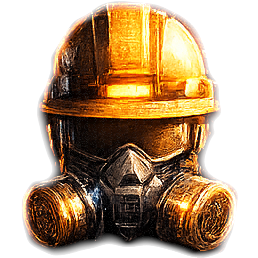
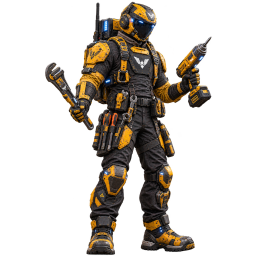
Trabajador con textura nueva y animación de reposo como el militar; novedades del 26

diff --git a/assets/js/reposo.js b/assets/js/reposo.js
@@ -9,10 +9,10 @@
    <img> estática de siempre. Sólo se anima lo que está en pantalla. */
 (function () {
   'use strict';
-  var CFG = {"reproduccion":{"modo":"hibrido","pausaMin":3,"pausaMax":8,"gestoDur":2.2,"rampa":0.3,"desfase":true},"unidades":{"militar":{"respiracion":{"amp":0.014,"periodo":3.6,"capa":"micro"},"balanceo":{"grados":1.5,"periodo":4.5,"capa":"gesto","desplaza":0,"pie":0.95},"cabeceo":{"y0":0,"y1":0.2,"cuello":0.2,"giro":5,"baja":0.006,"periodo":3.4,"capa":"gesto","x0":0,"x1":1,"fase":0},"brillos":[{"nombre":"luz","x":0.5,"y":0.3,"r":0.06,"color":"#5ec8ff","intens":0.8,"periodo":2.4,"modo":0,"capa":"micro","fase":0}]},"cientifico":{"respiracion":{"amp":0.012,"periodo":4,"capa":"micro"},"balanceo":{"grados":0.8,"periodo":5.5,"capa":"micro","desplaza":0,"pie":0.95},"cabeceo":{"y0":0,"y1":0.2,"cuello":0.2,"giro":5,"baja":0.006,"periodo":3.4,"capa":"gesto","x0":0,"x1":1,"fase":0},"brillos":[{"nombre":"luz","x":0.5,"y":0.3,"r":0.06,"color":"#5ec8ff","intens":0.8,"periodo":2.4,"modo":0,"capa":"micro","fase":0}]},"constructor":{"respiracion":{"amp":0.012,"periodo":3.8,"capa":"micro"},"balanceo":{"grados":1.5,"periodo":4.5,"capa":"gesto","desplaza":0,"pie":0.95},"cabeceo":{"y0":0,"y1":0.2,"cuello":0.2,"giro":5,"baja":0.006,"periodo":3.4,"capa":"gesto","x0":0,"x1":1,"fase":0},"brillos":[{"nombre":"luz","x":0.5,"y":0.3,"r":0.06,"color":"#5ec8ff","intens":0.8,"periodo":2.4,"modo":0,"capa":"micro","fase":0}]},"droide":{"flotar":{"altura":0.022,"periodo":2.6,"deriva":0,"capa":"micro"},"vibracion":{"px":0.002,"hz":18,"capa":"micro"},"brillos":[{"nombre":"luz","x":0.5,"y":0.3,"r":0.06,"color":"#5ec8ff","intens":0.8,"periodo":2.4,"modo":0,"capa":"micro","fase":0}]},"explorador":{"brillos":[{"nombre":"luz","x":0.5,"y":0.3,"r":0.06,"color":"#5ec8ff","intens":0.8,"periodo":2.4,"modo":0,"capa":"micro","fase":0}],"balanceo":{"grados":1.5,"periodo":4.5,"capa":"gesto","desplaza":0,"pie":0.95},"cabeceo":{"y0":0,"y1":0.2,"cuello":0.2,"giro":5,"baja":0.006,"periodo":3.4,"capa":"gesto","x0":0,"x1":1,"fase":0}},"meca":{"respiracion":{"amp":0.009,"periodo":4.2,"capa":"micro"},"vapor":[{"nombre":"hombro izq.","x":0.2,"y":0.1,"cantidad":2,"tamano":0.05,"subida":0.12,"color":"#cfd6d8","capa":"gesto","periodo":3,"opacidad":0.35},{"nombre":"hombro der.","x":0.76,"y":0.12,"cantidad":2,"tamano":0.05,"subida":0.12,"color":"#cfd6d8","capa":"gesto","periodo":3,"opacidad":0.35}],"balanceo":{"grados":1.5,"periodo":4.5,"capa":"gesto","desplaza":0,"pie":0.95},"cabeceo":{"y0":0,"y1":0.2,"cuello":0.2,"giro":5,"baja":0.006,"periodo":3.4,"capa":"gesto","x0":0,"x1":1,"fase":0},"vibracion":{"px":0.002,"hz":18,"capa":"micro"},"brillos":[{"nombre":"luz","x":0.5,"y":0.3,"r":0.06,"color":"#5ec8ff","intens":0.8,"periodo":2.4,"modo":0,"capa":"micro","fase":0}]},"transporte_apc":{"vibracion":{"px":0.0025,"hz":16,"capa":"micro"},"brillos":[{"nombre":"luz","x":0.5,"y":0.3,"r":0.06,"color":"#5ec8ff","intens":0.8,"periodo":2.4,"modo":0,"capa":"micro","fase":0}]},"raptor":{"flotar":{"altura":0.016,"periodo":2.8,"deriva":0,"capa":"micro"},"balanceo":{"grados":1,"periodo":4.5,"capa":"micro","desplaza":0,"pie":0.95},"brillos":[{"nombre":"luz","x":0.5,"y":0.3,"r":0.06,"color":"#5ec8ff","intens":0.8,"periodo":2.4,"modo":0,"capa":"micro","fase":0}],"vapor":[{"nombre":"salida","x":0.5,"y":0.2,"cantidad":2,"tamano":0.05,"subida":0.12,"color":"#cfd6d8","capa":"gesto","periodo":3,"opacidad":0.35}]}}};
+  var CFG = {"reproduccion":{"modo":"hibrido","pausaMin":3,"pausaMax":8,"gestoDur":2.2,"rampa":0.3,"desfase":true},"unidades":{"militar":{"respiracion":{"amp":0.014,"periodo":3.6,"capa":"micro"},"balanceo":{"grados":1.5,"periodo":4.5,"capa":"gesto","desplaza":0,"pie":0.95},"cabeceo":{"y0":0,"y1":0.2,"cuello":0.2,"giro":5,"baja":0.006,"periodo":3.4,"capa":"gesto","x0":0,"x1":1,"fase":0},"brillos":[{"nombre":"luz","x":0.5,"y":0.3,"r":0.06,"color":"#5ec8ff","intens":0.8,"periodo":2.4,"modo":0,"capa":"micro","fase":0}]},"trabajador":{"respiracion":{"amp":0.014,"periodo":3.6,"capa":"micro"},"balanceo":{"grados":1.5,"periodo":4.5,"capa":"gesto","desplaza":0,"pie":0.95},"cabeceo":{"y0":0,"y1":0.2,"cuello":0.2,"giro":5,"baja":0.006,"periodo":3.4,"capa":"gesto","x0":0,"x1":1,"fase":0},"brillos":[{"nombre":"luz","x":0.5,"y":0.3,"r":0.06,"color":"#5ec8ff","intens":0.8,"periodo":2.4,"modo":0,"capa":"micro","fase":0}]},"cientifico":{"respiracion":{"amp":0.012,"periodo":4,"capa":"micro"},"balanceo":{"grados":0.8,"periodo":5.5,"capa":"micro","desplaza":0,"pie":0.95},"cabeceo":{"y0":0,"y1":0.2,"cuello":0.2,"giro":5,"baja":0.006,"periodo":3.4,"capa":"gesto","x0":0,"x1":1,"fase":0},"brillos":[{"nombre":"luz","x":0.5,"y":0.3,"r":0.06,"color":"#5ec8ff","intens":0.8,"periodo":2.4,"modo":0,"capa":"micro","fase":0}]},"constructor":{"respiracion":{"amp":0.012,"periodo":3.8,"capa":"micro"},"balanceo":{"grados":1.5,"periodo":4.5,"capa":"gesto","desplaza":0,"pie":0.95},"cabeceo":{"y0":0,"y1":0.2,"cuello":0.2,"giro":5,"baja":0.006,"periodo":3.4,"capa":"gesto","x0":0,"x1":1,"fase":0},"brillos":[{"nombre":"luz","x":0.5,"y":0.3,"r":0.06,"color":"#5ec8ff","intens":0.8,"periodo":2.4,"modo":0,"capa":"micro","fase":0}]},"droide":{"flotar":{"altura":0.022,"periodo":2.6,"deriva":0,"capa":"micro"},"vibracion":{"px":0.002,"hz":18,"capa":"micro"},"brillos":[{"nombre":"luz","x":0.5,"y":0.3,"r":0.06,"color":"#5ec8ff","intens":0.8,"periodo":2.4,"modo":0,"capa":"micro","fase":0}]},"explorador":{"brillos":[{"nombre":"luz","x":0.5,"y":0.3,"r":0.06,"color":"#5ec8ff","intens":0.8,"periodo":2.4,"modo":0,"capa":"micro","fase":0}],"balanceo":{"grados":1.5,"periodo":4.5,"capa":"gesto","desplaza":0,"pie":0.95},"cabeceo":{"y0":0,"y1":0.2,"cuello":0.2,"giro":5,"baja":0.006,"periodo":3.4,"capa":"gesto","x0":0,"x1":1,"fase":0}},"meca":{"respiracion":{"amp":0.009,"periodo":4.2,"capa":"micro"},"vapor":[{"nombre":"hombro izq.","x":0.2,"y":0.1,"cantidad":2,"tamano":0.05,"subida":0.12,"color":"#cfd6d8","capa":"gesto","periodo":3,"opacidad":0.35},{"nombre":"hombro der.","x":0.76,"y":0.12,"cantidad":2,"tamano":0.05,"subida":0.12,"color":"#cfd6d8","capa":"gesto","periodo":3,"opacidad":0.35}],"balanceo":{"grados":1.5,"periodo":4.5,"capa":"gesto","desplaza":0,"pie":0.95},"cabeceo":{"y0":0,"y1":0.2,"cuello":0.2,"giro":5,"baja":0.006,"periodo":3.4,"capa":"gesto","x0":0,"x1":1,"fase":0},"vibracion":{"px":0.002,"hz":18,"capa":"micro"},"brillos":[{"nombre":"luz","x":0.5,"y":0.3,"r":0.06,"color":"#5ec8ff","intens":0.8,"periodo":2.4,"modo":0,"capa":"micro","fase":0}]},"transporte_apc":{"vibracion":{"px":0.0025,"hz":16,"capa":"micro"},"brillos":[{"nombre":"luz","x":0.5,"y":0.3,"r":0.06,"color":"#5ec8ff","intens":0.8,"periodo":2.4,"modo":0,"capa":"micro","fase":0}]},"raptor":{"flotar":{"altura":0.016,"periodo":2.8,"deriva":0,"capa":"micro"},"balanceo":{"grados":1,"periodo":4.5,"capa":"micro","desplaza":0,"pie":0.95},"brillos":[{"nombre":"luz","x":0.5,"y":0.3,"r":0.06,"color":"#5ec8ff","intens":0.8,"periodo":2.4,"modo":0,"capa":"micro","fase":0}],"vapor":[{"nombre":"salida","x":0.5,"y":0.2,"cantidad":2,"tamano":0.05,"subida":0.12,"color":"#cfd6d8","capa":"gesto","periodo":3,"opacidad":0.35}]}}};
   var CFGC = {"aquadeso":{"variante":"A","nombre":"Acecho","efectos":{"respiracion":{"amp":0.016,"periodo":3.2,"capa":"micro"},"balanceo":{"grados":1.5,"periodo":3.8,"capa":"micro","desplaza":0,"pie":0.95},"brillos":[{"nombre":"ojo izq.","x":0.34,"y":0.31,"r":0.03,"color":"#f0b030","intens":0.8,"periodo":2.6,"modo":0,"capa":"micro","fase":0},{"nombre":"ojo der.","x":0.47,"y":0.31,"r":0.03,"color":"#f0b030","intens":0.8,"periodo":2.6,"modo":0,"capa":"micro","fase":0.3}],"cabeceo":{"y0":0,"y1":0.2,"cuello":0.2,"giro":5,"baja":0.006,"periodo":3.4,"capa":"gesto","x0":0,"x1":1,"fase":0}}},"obidicto":{"variante":"A","nombre":"Guardia","efectos":{"respiracion":{"amp":0.01,"periodo":3.8,"capa":"micro"},"balanceo":{"grados":1,"periodo":4.5,"capa":"gesto","desplaza":0,"pie":0.95},"brillos":[{"nombre":"visor","x":0.475,"y":0.14,"r":0.035,"color":"#ff3030","intens":0.9,"periodo":2.2,"modo":0,"capa":"micro","fase":0}],"cabeceo":{"y0":0,"y1":0.2,"cuello":0.2,"giro":5,"baja":0.006,"periodo":3.4,"capa":"gesto","x0":0,"x1":1,"fase":0}}},"aratico":{"variante":"A","nombre":"Vigía","efectos":{"respiracion":{"amp":0.012,"periodo":4,"capa":"micro"},"brillos":[{"nombre":"ojo","x":0.33,"y":0.44,"r":0.03,"color":"#ff3030","intens":0.9,"periodo":3,"modo":1,"capa":"micro","fase":0},{"nombre":"piloto","x":0.56,"y":0.45,"r":0.025,"color":"#ff3030","intens":0.8,"periodo":3,"modo":1,"capa":"micro","fase":0.4}],"balanceo":{"grados":1.5,"periodo":4.5,"capa":"gesto","desplaza":0,"pie":0.95},"cabeceo":{"y0":0,"y1":0.2,"cuello":0.2,"giro":5,"baja":0.006,"periodo":3.4,"capa":"gesto","x0":0,"x1":1,"fase":0}}},"pescualido":{"variante":"A","nombre":"Latidos","efectos":{"respiracion":{"amp":0.014,"periodo":3.6,"capa":"micro"},"brillos":[{"nombre":"ojo mayor","x":0.51,"y":0.17,"r":0.04,"color":"#3a8cff","intens":0.95,"periodo":2.4,"modo":0,"capa":"micro","fase":0},{"nombre":"ojo 2","x":0.38,"y":0.22,"r":0.03,"color":"#3a8cff","intens":0.85,"periodo":2.4,"modo":0,"capa":"micro","fase":0.3},{"nombre":"ojo 3","x":0.58,"y":0.53,"r":0.03,"color":"#3a8cff","intens":0.85,"periodo":2.4,"modo":0,"capa":"micro","fase":0.6},{"nombre":"ojo 4","x":0.25,"y":0.66,"r":0.03,"color":"#3a8cff","intens":0.8,"periodo":2.4,"modo":0,"capa":"micro","fase":0.8}],"balanceo":{"grados":1.5,"periodo":4.5,"capa":"gesto","desplaza":0,"pie":0.95},"cabeceo":{"y0":0,"y1":0.2,"cuello":0.2,"giro":5,"baja":0.006,"periodo":3.4,"capa":"gesto","x0":0,"x1":1,"fase":0}}},"serpenta":{"variante":"A","nombre":"Ondular","efectos":{"respiracion":{"amp":0.01,"periodo":3,"capa":"micro"},"balanceo":{"grados":2.5,"periodo":3.4,"capa":"micro","desplaza":0.006,"pie":0.95},"cabeceo":{"y0":0,"y1":0.2,"cuello":0.2,"giro":5,"baja":0.006,"periodo":3.4,"capa":"gesto","x0":0,"x1":1,"fase":0},"brillos":[{"nombre":"luz","x":0.5,"y":0.3,"r":0.06,"color":"#5ec8ff","intens":0.8,"periodo":2.4,"modo":0,"capa":"micro","fase":0}]}},"maricobra":{"variante":"A","nombre":"Alas lentas","efectos":{"respiracion":{"amp":0.01,"periodo":3.6,"capa":"micro"},"partes":[{"nombre":"ala izq.","x0":0,"y0":0,"x1":0.47,"y1":0.68,"px":0.47,"py":0.42,"giro":5,"dx":0,"dy":0,"periodo":2.2,"fase":0,"capa":"gesto"},{"nombre":"ala der.","x0":0.53,"y0":0,"x1":1,"y1":0.68,"px":0.53,"py":0.42,"giro":-5,"dx":0,"dy":0,"periodo":2.2,"fase":0,"capa":"gesto"}],"brillos":[{"nombre":"luz","x":0.5,"y":0.3,"r":0.06,"color":"#5ec8ff","intens":0.8,"periodo":2.4,"modo":0,"capa":"micro","fase":0}]}},"zarpatauro":{"variante":"A","nombre":"Jadeo","efectos":{"respiracion":{"amp":0.018,"periodo":2.6,"capa":"micro"},"balanceo":{"grados":1,"periodo":3,"capa":"micro","desplaza":0,"pie":0.95},"cabeceo":{"y0":0,"y1":0.2,"cuello":0.2,"giro":5,"baja":0.006,"periodo":3.4,"capa":"gesto","x0":0,"x1":1,"fase":0},"brillos":[{"nombre":"luz","x":0.5,"y":0.3,"r":0.06,"color":"#5ec8ff","intens":0.8,"periodo":2.4,"modo":0,"capa":"micro","fase":0}]}},"aracnoso":{"variante":"A","nombre":"Acechar","efectos":{"respiracion":{"amp":0.014,"periodo":3.4,"capa":"micro"},"balanceo":{"grados":1,"periodo":4,"capa":"micro","desplaza":0,"pie":0.95},"cabeceo":{"y0":0,"y1":0.2,"cuello":0.2,"giro":5,"baja":0.006,"periodo":3.4,"capa":"gesto","x0":0,"x1":1,"fase":0},"brillos":[{"nombre":"luz","x":0.5,"y":0.3,"r":0.06,"color":"#5ec8ff","intens":0.8,"periodo":2.4,"modo":0,"capa":"micro","fase":0}]}},"cocodactilo":{"variante":"A","nombre":"Alas","efectos":{"respiracion":{"amp":0.01,"periodo":3.4,"capa":"micro"},"partes":[{"nombre":"ala izq.","x0":0.08,"y0":0.05,"x1":0.46,"y1":0.52,"px":0.46,"py":0.42,"giro":5,"dx":0,"dy":0,"periodo":2.4,"fase":0,"capa":"gesto"},{"nombre":"ala der.","x0":0.7,"y0":0.1,"x1":0.92,"y1":0.55,"px":0.68,"py":0.42,"giro":-4,"dx":0,"dy":0,"periodo":2.4,"fase":0,"capa":"gesto"}],"balanceo":{"grados":1.5,"periodo":4.5,"capa":"gesto","desplaza":0,"pie":0.95},"cabeceo":{"y0":0,"y1":0.2,"cuello":0.2,"giro":5,"baja":0.006,"periodo":3.4,"capa":"gesto","x0":0,"x1":1,"fase":0},"flotar":{"altura":0.02,"periodo":2.6,"deriva":0,"capa":"micro"},"brillos":[{"nombre":"luz","x":0.5,"y":0.3,"r":0.06,"color":"#5ec8ff","intens":0.8,"periodo":2.4,"modo":0,"capa":"micro","fase":0}]}},"devastador":{"variante":"A","nombre":"Respirar","efectos":{"respiracion":{"amp":0.012,"periodo":4,"capa":"micro"},"balanceo":{"grados":1,"periodo":4.5,"capa":"micro","desplaza":0,"pie":0.95},"cabeceo":{"y0":0,"y1":0.2,"cuello":0.2,"giro":5,"baja":0.006,"periodo":3.4,"capa":"gesto","x0":0,"x1":1,"fase":0},"brillos":[{"nombre":"luz","x":0.5,"y":0.3,"r":0.06,"color":"#5ec8ff","intens":0.8,"periodo":2.4,"modo":0,"capa":"micro","fase":0}]}},"rinotortuga":{"variante":"A","nombre":"Caparazón","efectos":{"respiracion":{"amp":0.012,"periodo":4.5,"capa":"micro"},"balanceo":{"grados":0.7,"periodo":5,"capa":"micro","desplaza":0,"pie":0.95},"cabeceo":{"y0":0,"y1":0.2,"cuello":0.2,"giro":5,"baja":0.006,"periodo":3.4,"capa":"gesto","x0":0,"x1":1,"fase":0},"vibracion":{"px":0.002,"hz":18,"capa":"micro"},"brillos":[{"nombre":"luz","x":0.5,"y":0.3,"r":0.06,"color":"#5ec8ff","intens":0.8,"periodo":2.4,"modo":0,"capa":"micro","fase":0}],"vapor":[{"nombre":"salida","x":0.5,"y":0.2,"cantidad":2,"tamano":0.05,"subida":0.12,"color":"#cfd6d8","capa":"gesto","periodo":3,"opacidad":0.35}]}},"ultimo_aliento":{"variante":"A","nombre":"Alas","efectos":{"respiracion":{"amp":0.01,"periodo":4,"capa":"micro"},"partes":[{"nombre":"ala izq.","x0":0,"y0":0.15,"x1":0.42,"y1":0.62,"px":0.42,"py":0.42,"giro":4,"dx":0,"dy":0,"periodo":2.4,"fase":0,"capa":"gesto"},{"nombre":"ala der.","x0":0.62,"y0":0.15,"x1":1,"y1":0.6,"px":0.62,"py":0.42,"giro":-4,"dx":0,"dy":0,"periodo":2.4,"fase":0,"capa":"gesto"}],"balanceo":{"grados":1.5,"periodo":4.5,"capa":"gesto","desplaza":0,"pie":0.95},"cabeceo":{"y0":0,"y1":0.2,"cuello":0.2,"giro":5,"baja":0.006,"periodo":3.4,"capa":"gesto","x0":0,"x1":1,"fase":0},"flotar":{"altura":0.02,"periodo":2.6,"deriva":0,"capa":"micro"},"brillos":[{"nombre":"luz","x":0.5,"y":0.3,"r":0.06,"color":"#5ec8ff","intens":0.8,"periodo":2.4,"modo":0,"capa":"micro","fase":0}]}},"bamber":{"variante":"A","nombre":"Pastar","efectos":{"respiracion":{"amp":0.01,"periodo":3.6,"capa":"micro"},"balanceo":{"grados":1.5,"periodo":4.5,"capa":"gesto","desplaza":0,"pie":0.95},"brillos":[{"nombre":"luz","x":0.5,"y":0.3,"r":0.06,"color":"#5ec8ff","intens":0.8,"periodo":2.4,"modo":0,"capa":"micro","fase":0}]}},"tuki":{"variante":"A","nombre":"Respirar","efectos":{"respiracion":{"amp":0.016,"periodo":3.2,"capa":"micro"},"balanceo":{"grados":1,"periodo":4,"capa":"micro","desplaza":0,"pie":0.95},"cabeceo":{"y0":0,"y1":0.2,"cuello":0.2,"giro":5,"baja":0.006,"periodo":3.4,"capa":"gesto","x0":0,"x1":1,"fase":0},"brillos":[{"nombre":"luz","x":0.5,"y":0.3,"r":0.06,"color":"#5ec8ff","intens":0.8,"periodo":2.4,"modo":0,"capa":"micro","fase":0}]}},"sapino":{"variante":"A","nombre":"Croar","efectos":{"respiracion":{"amp":0.02,"periodo":2.4,"capa":"micro"},"balanceo":{"grados":0.8,"periodo":3.4,"capa":"micro","desplaza":0,"pie":0.95},"cabeceo":{"y0":0,"y1":0.2,"cuello":0.2,"giro":5,"baja":0.006,"periodo":3.4,"capa":"gesto","x0":0,"x1":1,"fase":0},"brillos":[{"nombre":"luz","x":0.5,"y":0.3,"r":0.06,"color":"#5ec8ff","intens":0.8,"periodo":2.4,"modo":0,"capa":"micro","fase":0}]}},"terima":{"variante":"A","nombre":"Flotar","efectos":{"flotar":{"altura":0.025,"periodo":3.2,"deriva":0.004,"capa":"micro"},"respiracion":{"amp":0.008,"periodo":3.6,"capa":"micro"},"balanceo":{"grados":1.5,"periodo":4.5,"capa":"gesto","desplaza":0,"pie":0.95},"cabeceo":{"y0":0,"y1":0.2,"cuello":0.2,"giro":5,"baja":0.006,"periodo":3.4,"capa":"gesto","x0":0,"x1":1,"fase":0},"brillos":[{"nombre":"luz","x":0.5,"y":0.3,"r":0.06,"color":"#5ec8ff","intens":0.8,"periodo":2.4,"modo":0,"capa":"micro","fase":0}]}},"kronta":{"variante":"A","nombre":"Respirar","efectos":{"respiracion":{"amp":0.014,"periodo":3.8,"capa":"micro"},"balanceo":{"grados":0.8,"periodo":4.5,"capa":"micro","desplaza":0,"pie":0.95},"cabeceo":{"y0":0,"y1":0.2,"cuello":0.2,"giro":5,"baja":0.006,"periodo":3.4,"capa":"gesto","x0":0,"x1":1,"fase":0},"brillos":[{"nombre":"luz","x":0.5,"y":0.3,"r":0.06,"color":"#5ec8ff","intens":0.8,"periodo":2.4,"modo":0,"capa":"micro","fase":0}]}}};
   Object.keys(CFGC).forEach(function (k) { CFG.unidades[k] = CFGC[k].efectos; }); /* el JSON de criaturas trae {variante, nombre, efectos} */
-  var BASE = { militar: 0.95, cientifico: 0.96, constructor: 0.95, droide: 0.9, explorador: 0.95, meca: 0.96, transporte_apc: 0.97, raptor: 0.9, aquadeso: 0.97, obidicto: 0.97, aratico: 0.93, pescualido: 0.97, serpenta: 0.95, maricobra: 0.92, zarpatauro: 0.95, aracnoso: 0.95, cocodactilo: 0.93, devastador: 0.87, rinotortuga: 0.95, ultimo_aliento: 0.83, bamber: 0.97, tuki: 0.96, sapino: 0.8, terima: 0.97, kronta: 0.8 };
+  var BASE = { militar: 0.95, trabajador: 0.95, cientifico: 0.96, constructor: 0.95, droide: 0.9, explorador: 0.95, meca: 0.96, transporte_apc: 0.97, raptor: 0.9, aquadeso: 0.97, obidicto: 0.97, aratico: 0.93, pescualido: 0.97, serpenta: 0.95, maricobra: 0.92, zarpatauro: 0.95, aracnoso: 0.95, cocodactilo: 0.93, devastador: 0.87, rinotortuga: 0.95, ultimo_aliento: 0.83, bamber: 0.97, tuki: 0.96, sapino: 0.8, terima: 0.97, kronta: 0.8 };
   /* Cuadro del arte original dentro de cada webp: [x, y, ancho, alto] en fracciones de la imagen (negativas = el recorte lo deja fuera). */
   function hasFrame(t) { return Object.prototype.hasOwnProperty.call(FRAME, t); } /* «constructor» es también una tropa: nada de FRAME[t] a pelo */
   var FRAME = {"aquadeso":[-0.2259,-0.1752,1.2995,1.1963],"aracnoso":[-0.1695,0.0042,1.339,0.997],"aratico":[-0.0433,-0.0844,1.0072,1.1591],"bamber":[-0.0014,-0.2927,1.0012,1.2921],"cocodactilo":[-0.1667,0.0,1.3333,1.0],"devastador":[-0.0017,-0.1682,1.0017,1.3366],"kronta":[-0.0024,-0.2559,1.0122,1.5202],"maricobra":[0.0,-0.0984,1.0,1.1991],"obidicto":[-0.2135,0.0,1.3838,1.0179],"pescualido":[-0.1542,0.0011,1.253,0.9989],"rinotortuga":[-0.1667,0.0,1.3333,1.0],"sapino":[-0.0007,-0.2496,1.0078,1.5005],"serpenta":[-0.301,-0.0123,1.5947,1.0513],"terima":[-0.1353,0.0028,1.2451,0.9992],"tuki":[-0.0019,-0.0438,1.0034,1.0907],"ultimo_aliento":[0.0,-0.2507,1.0,1.5015],"zarpatauro":[-0.1632,0.0,1.3264,1.0302]};

diff --git a/index.html b/index.html
@@ -1133,6 +1133,6 @@ window.addEventListener('message', function (ev) {
   document.addEventListener('visibilitychange', function () { if (!document.hidden) poll(); });
 })();
 </script>
-<script src="assets/js/reposo.js?v=20261020c"></script>
+<script src="assets/js/reposo.js?v=20261026a"></script>
 </body>
 </html>

diff --git a/README.es.md b/README.es.md
@@ -187,6 +187,7 @@ La última versión es **v2026.10.26 alpha**.
 - La ficha de una sola tropa seleccionada lista sus efectos, positivos, negativos y neutros: un icono con un anillo que se vacía con las rondas, el nombre y las rondas restantes, y un tooltip con su descripción y, con Shift, su origen; con varias tropas seleccionadas no cambia
 - Sprint y Contraataque adicional aparecen como efecto en la ficha mientras su orden está en cola (Contraataque adicional también mientras su segundo contraataque sigue libre)
 - Dopar, Camuflaje, Turbo y Reparar suenan al resolverse (Camuflaje, Turbo y Reparar con sonido sintetizado hasta tener su mp3)
+- Texturas nuevas del Trabajador: icono en extractores, generadores y listas, y figura de cuerpo entero en su ficha, en la wiki y en la web, donde además se anima como el resto de tropas; el tooltip de una orden de producir una unidad enseña esa unidad
 
 ### v2026.10.25 alpha
 

diff --git a/README.md b/README.md
@@ -187,6 +187,7 @@ The latest version is **v2026.10.26 alpha**.
 - The card of a single selected troop lists its effects, positive, negative and neutral: an icon with a ring that empties as rounds pass, the name and the rounds left, and a tooltip with its description and, with Shift, its origin; with several troops selected it stays as it was
 - Sprint and Extra counterattack show up as an effect on the card while their order is queued (Extra counterattack also while its second counterattack is still free)
 - Dope, Camouflage, Turbo and Repair make a sound when they resolve (Camouflage, Turbo and Repair with a synthesized sound until their mp3 arrives)
+- New Worker textures: an icon on extractors, generators and lists, and a full-body figure on its card, in the wiki and on the website, where it is also animated like the other troops; the tooltip of an order that produces a unit shows that unit
 
 ### v2026.10.25 alpha
 
